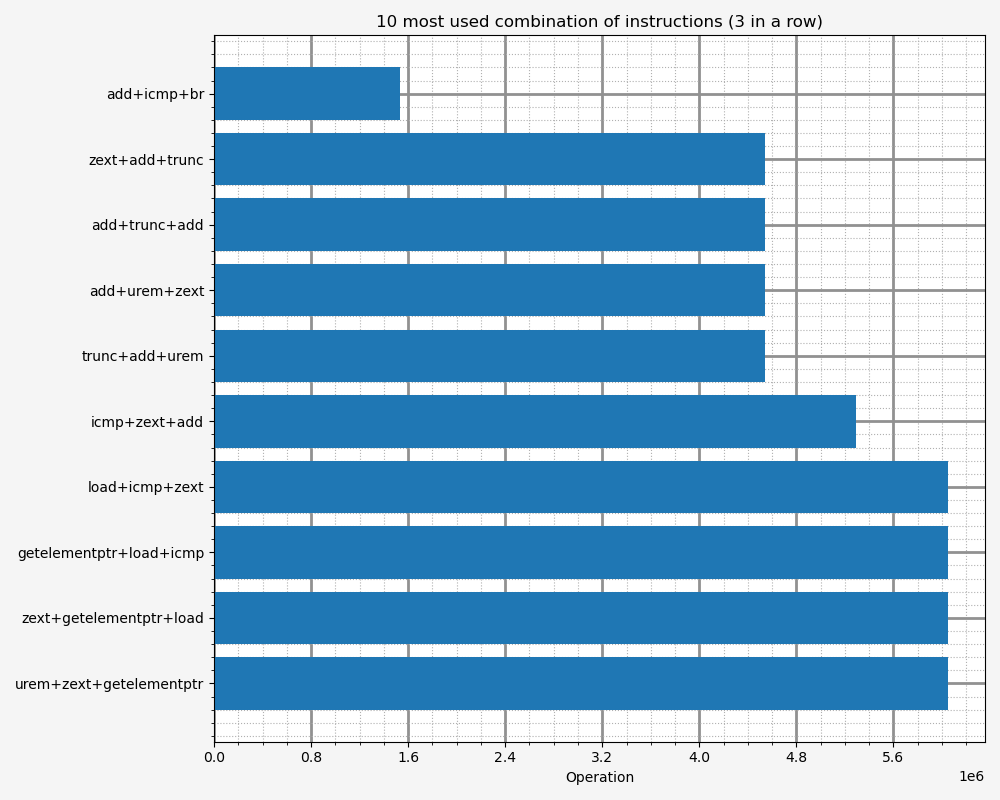
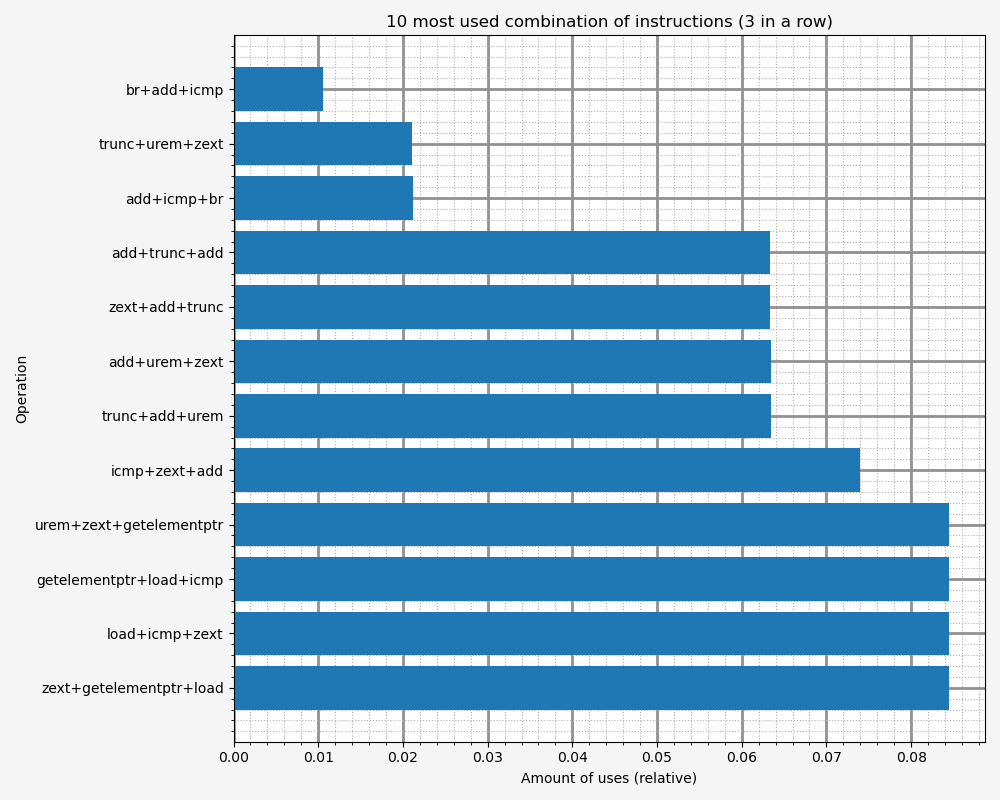
Add more combinations of LLVM IR ops, optimise plot-generation script

diff --git a/graphics_app/gameoflife_trace/trace_analyses/gen_plots.py b/graphics_app/gameoflife_trace/trace_analyses/gen_plots.py
@@ -43,8 +43,8 @@ def build_plot(title, instructions, savename):
     gs = GridSpec(ncols=1, nrows=1, figure=figure)
     ax = figure.add_subplot(gs[0, 0])
 
-    ax.set_xlabel("Amount of uses")
-    ax.set_xlabel("Operation")
+    ax.set_xlabel("Amount of uses (relative)")
+    ax.set_ylabel("Operation")
     ax.set_title(title)
 
     set_axis_properties(ax)
@@ -60,6 +60,10 @@ if __name__ == '__main__':
         print(f"Usage: {sys.argv[0]} <filname.trace>", file=sys.stderr)
         exit(1)
 
+    n_top_combinations = 12
+    max_comb_start = 2
+    max_comb_size  = 9
+
     trace_filename = sys.argv[1]
     instructions = []
 
@@ -69,37 +73,29 @@ if __name__ == '__main__':
     for i in range(0, len(instructions)):
         instructions[i] = instructions[i].strip()
 
-    n_top_combinations = 10
-
-    comb_2 = []
-    for i in range(0, len(instructions) - 1):
-        comb_2.append((instructions[i], instructions[i + 1]))
-
-    comb_3 = []
-    for i in range(0, len(instructions) - 2):
-        comb_3.append((instructions[i], instructions[i + 1], instructions[i + 2]))
-
-    comb_4 = []
-    for i in range(0, len(instructions) - 3):
-        comb_4.append((instructions[i], instructions[i + 1], instructions[i + 2], instructions[i + 3]))
-
-    comb_5 = []
-    for i in range(0, len(instructions) - 4):
-        comb_5.append((instructions[i], instructions[i + 1], instructions[i + 2], instructions[i + 3], instructions[i + 4]))
-
-    unique_instr  = sorted({comb : instructions.count(comb) for comb in set(instructions)}.items(), \
-                           key=lambda item: item[1], reverse=True)[0:n_top_combinations]
-    unique_comb_2 = sorted({comb : comb_2.count(comb) for comb in set(comb_2)}.items(), \
-                           key=lambda item: item[1], reverse=True)[0:n_top_combinations]
-    unique_comb_3 = sorted({comb : comb_3.count(comb) for comb in set(comb_3)}.items(), \
-                           key=lambda item: item[1], reverse=True)[0:n_top_combinations]
-    unique_comb_4 = sorted({comb : comb_4.count(comb) for comb in set(comb_4)}.items(), \
-                           key=lambda item: item[1], reverse=True)[0:n_top_combinations]
-    unique_comb_5 = sorted({comb : comb_5.count(comb) for comb in set(comb_5)}.items(), \
+    unique_instr = sorted({comb : instructions.count(comb) / len(instructions) for comb in set(instructions)}.items(), \
                            key=lambda item: item[1], reverse=True)[0:n_top_combinations]
 
-    build_plot("10 most used combination of instructions (1 in a row)", unique_instr, "comb_1.png")
-    build_plot("10 most used combination of instructions (2 in a row)", unique_comb_2, "comb_2.png")
-    build_plot("10 most used combination of instructions (3 in a row)", unique_comb_3, "comb_3.png")
-    build_plot("10 most used combination of instructions (4 in a row)", unique_comb_4, "comb_4.png")
-    build_plot("10 most used combination of instructions (5 in a row)", unique_comb_5, "comb_5.png")
+    all_combs = []
+
+    for comb_size in range(max_comb_start, max_comb_size + 1):
+        combs = []
+
+        for i in range(0, len(instructions) - comb_size + 1):
+            comb = []
+            for j in range(comb_size):
+                comb.append(instructions[i + j])
+
+            combs.append(tuple(comb))
+
+        n_combs = len(combs)
+
+        combs_sorted = sorted({comb : combs.count(comb) / n_combs for comb in set(combs)}.items(), \
+                           key=lambda item: item[1], reverse=True)[0:n_top_combinations]
+
+        all_combs.append(combs_sorted)
+
+    build_plot(f"10 most used combination of instructions (1 in a row)", unique_instr, "comb_1.png")
+
+    for comb_size in range(max_comb_start, max_comb_size + 1):
+        build_plot(f"10 most used combination of instructions ({comb_size} in a row)", all_combs[comb_size - max_comb_start], f"comb_{comb_size}.png")
